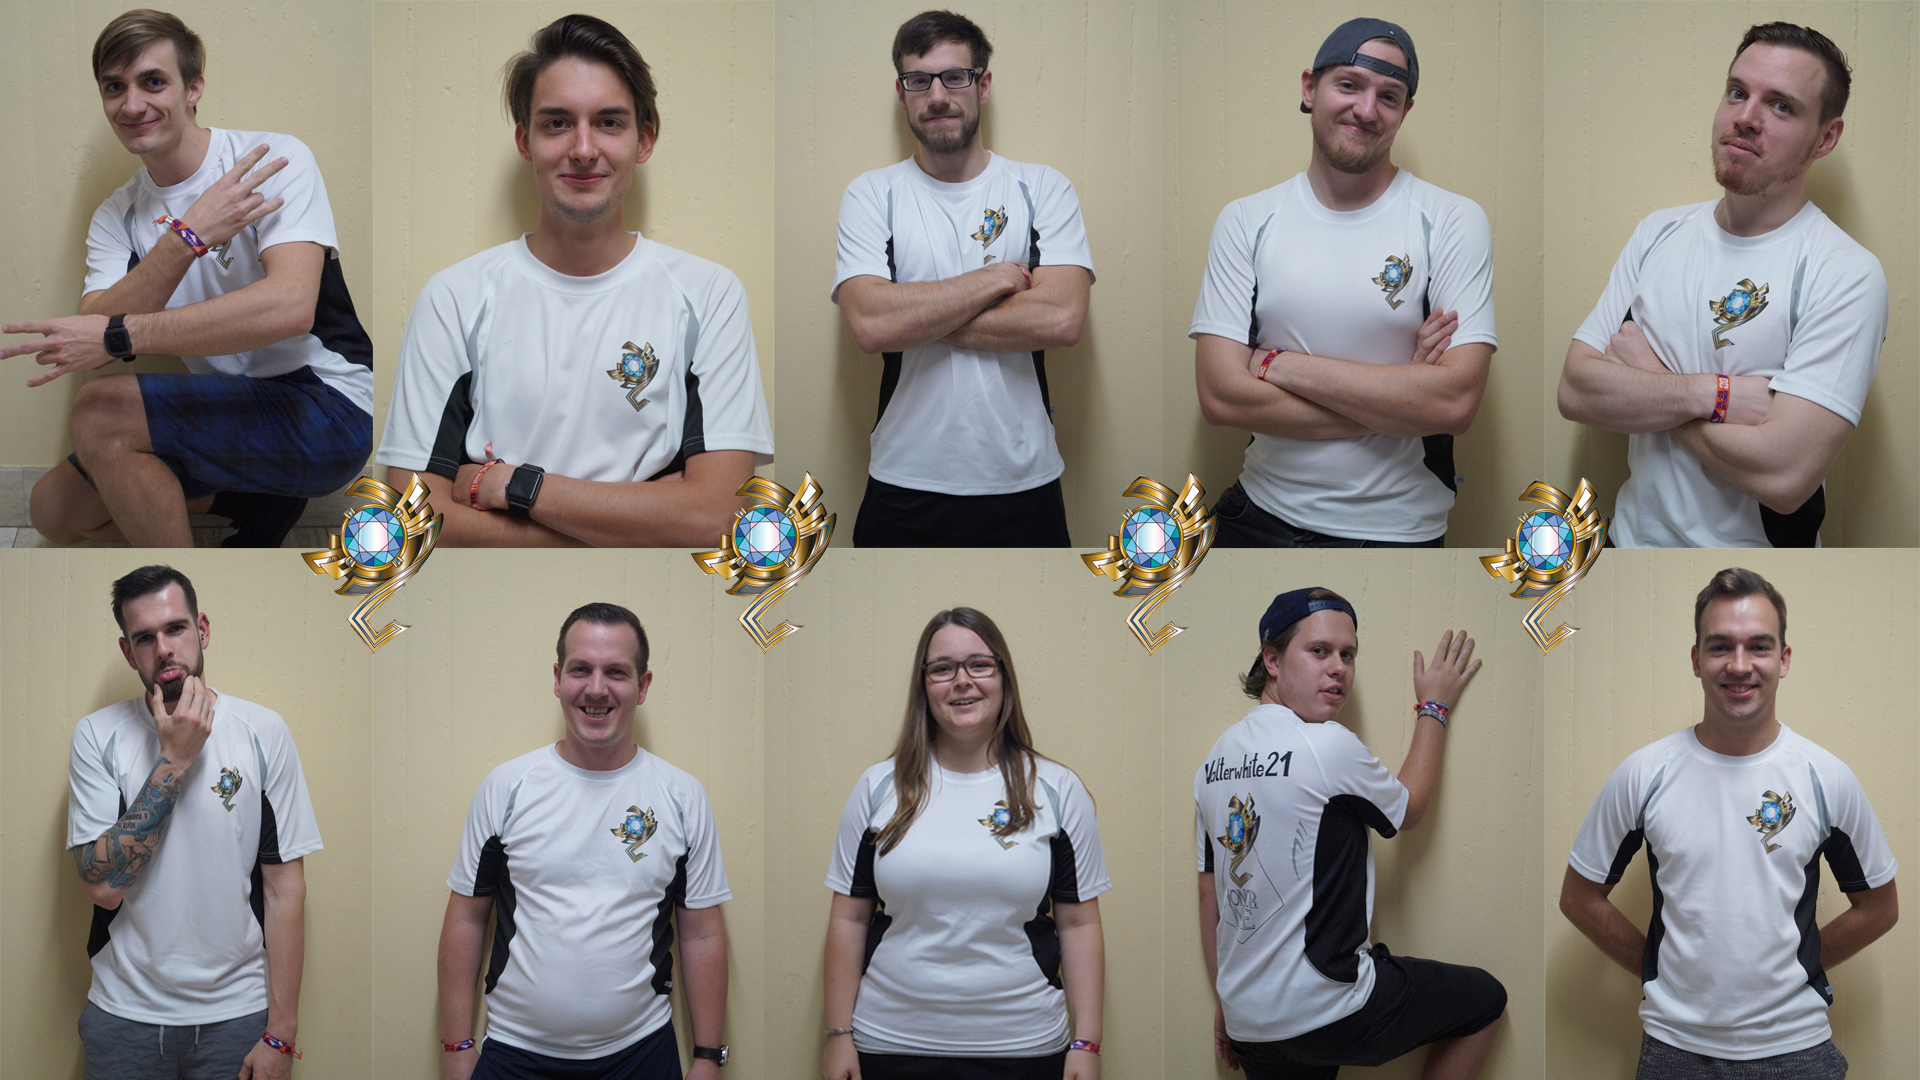
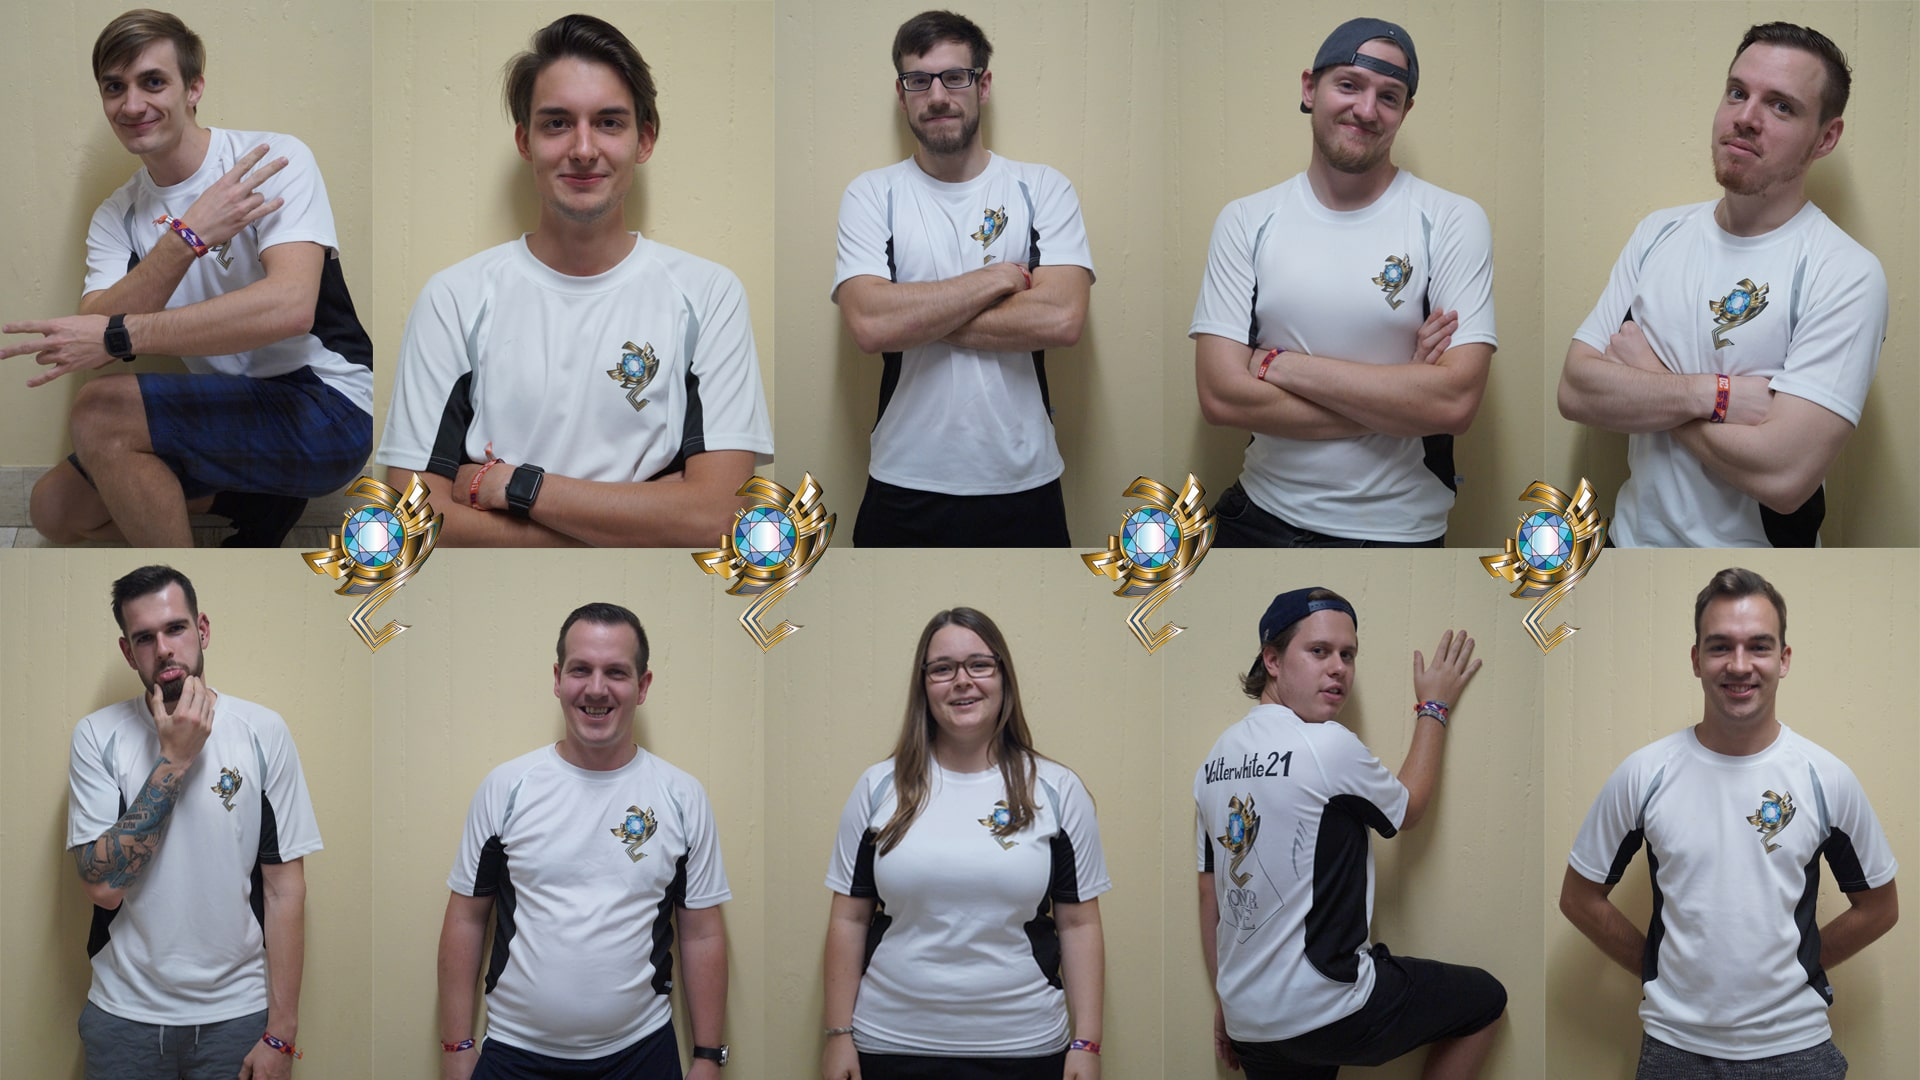
4th commit, compressed img and added README

diff --git a/src/main/resources/templates/aboutUs.html b/src/main/resources/templates/aboutUs.html
@@ -20,7 +20,7 @@
             </h1>
             <section id="contact">
                 <div class="col-md-8">
-                    <img class="img-fluid" th:src="@{images/general/gruppe2Edit.png}" alt="">
+                    <img class="img-fluid" th:src="@{images/general/gruppe2Edit.jpg}" alt="">
                 </div>
 
 

diff --git a/README.md b/README.md
@@ -1,40 +1,12 @@
-# java-getting-started
+# Honor Me Clan Website, Visit on https://honorme.herokuapp.com/
 
-A barebones Java app, which can easily be deployed to Heroku.
+Build on Spring Boot Framework, Maven and Thymeleaf Template Engine.
 
-This application supports the [Getting Started with Java on Heroku](https://devcenter.heroku.com/articles/getting-started-with-java) article - check it out.
+Uses Riot Games API (Orianna Framework).
 
-[![Deploy to Heroku](https://www.herokucdn.com/deploy/button.png)](https://heroku.com/deploy)
+## Table of Contents:
 
-## Running Locally
-
-Make sure you have Java and Maven installed.  Also, install the [Heroku CLI](https://cli.heroku.com/).
-
-```sh
-$ git clone https://github.com/heroku/java-getting-started.git
-$ cd java-getting-started
-$ mvn install
-$ heroku local:start
-```
-
-Your app should now be running on [localhost:5000](http://localhost:5000/).
-
-If you're going to use a database, ensure you have a local `.env` file that reads something like this:
-
-```
-JDBC_DATABASE_URL=jdbc:postgresql://localhost:5432/java_database_name
-```
-
-## Deploying to Heroku
-
-```sh
-$ heroku create
-$ git push heroku master
-$ heroku open
-```
-
-## Documentation
-
-For more information about using Java on Heroku, see these Dev Center articles:
-
-- [Java on Heroku](https://devcenter.heroku.com/categories/java)
+* index.html - Welcome Page
+* aboutUs.html - Infos aubout the Clan and Members (displaying the Ranks of LoL Players)
+* news.html - Blog-like Page with news
+* gallery.html - Photos from the Clan
